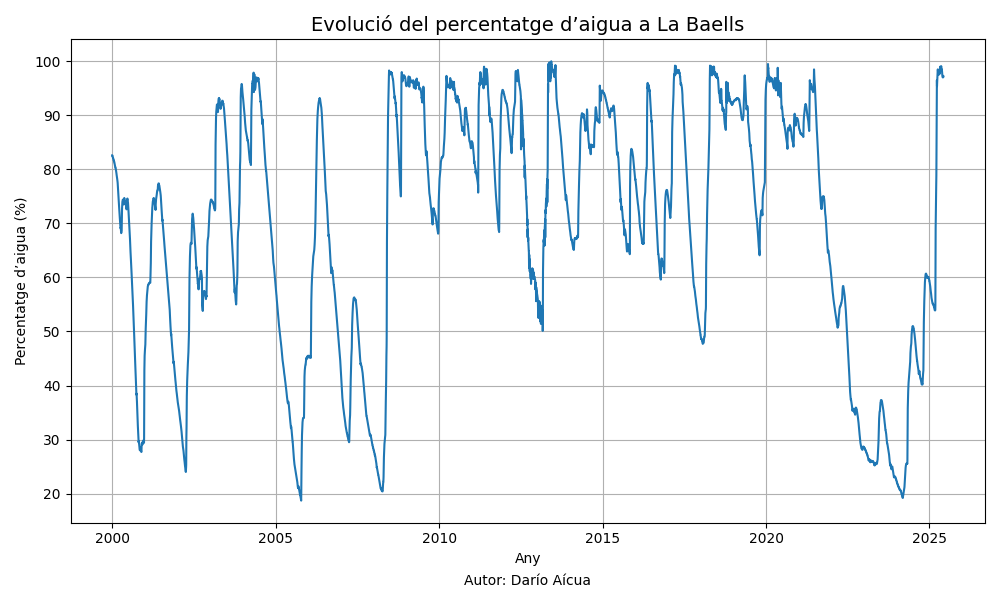
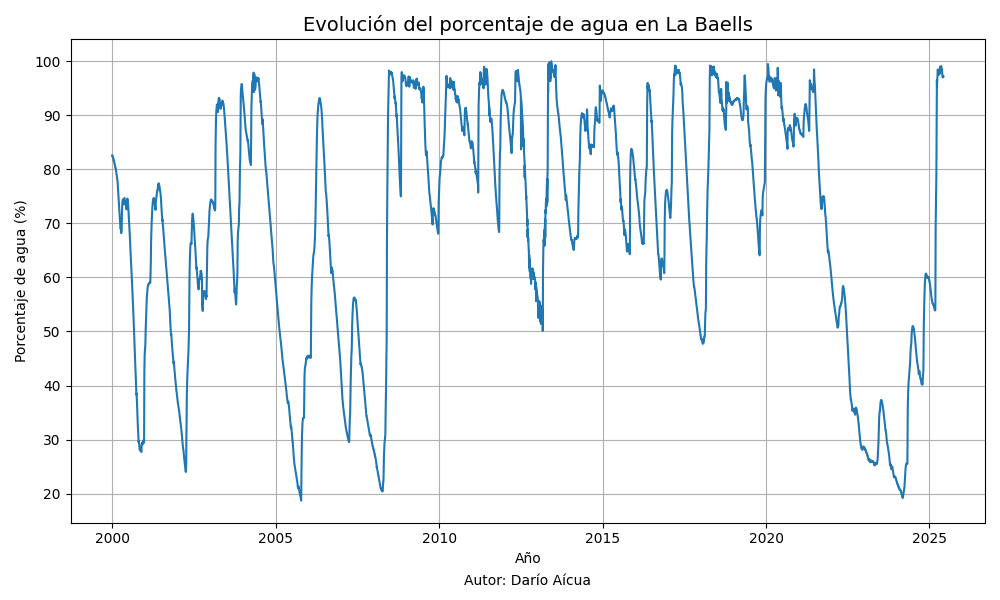
Convertir textos a castellano

Changed region(s): [[0.31, 0.03, 0.775, 0.06], [0.0, 0.33, 0.031, 0.6]]

diff --git a/baells/plots.py b/baells/plots.py
@@ -19,9 +19,9 @@ def plot_volume(df, path_to_save, nombre_autor="Darío Aícua"):
     plt.figure(figsize=(10, 6))
     plt.plot(df["dia_decimal"], df["nivell_perc"], label="Volum d’aigua")
 
-    plt.xlabel("Any")
-    plt.ylabel("Percentatge d’aigua (%)")
-    plt.title("Evolució del percentatge d’aigua a La Baells", fontsize=14)
+    plt.xlabel("Año")
+    plt.ylabel("Porcentaje de agua (%)")
+    plt.title("Evolución del porcentaje de agua en La Baells", fontsize=14)
     plt.text(0.5, -0.12, f"Autor: {nombre_autor}", ha='center', va='center',
              transform=plt.gca().transAxes, fontsize=10)
 
@@ -46,11 +46,11 @@ def plot_smoothed(df, path_to_save, nombre_autor="Darío Aícua"):
     """
     plt.figure(figsize=(10, 6))
     plt.plot(df["dia_decimal"], df["nivell_perc"], label="Original", alpha=0.5)
-    plt.plot(df["dia_decimal"], df["nivell_suavitzat"], label="Suavitzat", linewidth=2)
+    plt.plot(df["dia_decimal"], df["nivell_suavitzat"], label="Suavizado", linewidth=2)
 
-    plt.xlabel("Any")
-    plt.ylabel("Percentatge d’aigua (%)")
-    plt.title("Evolució del percentatge d’aigua a La Baells (suavitzada)", fontsize=14)
+    plt.xlabel("Año")
+    plt.ylabel("Porcentaje de agua (%)")
+    plt.title("Evolución del porcentaje de agua en La Baells (suavizado)", fontsize=14)
     plt.text(0.5, -0.12, f"Autor: {nombre_autor}", ha='center', va='center',
              transform=plt.gca().transAxes, fontsize=10)
 

diff --git a/main.py b/main.py
@@ -92,8 +92,8 @@ def main():
         # Creamos columna para el suavizado
         df_baells["nivell_suavitzat"] = apply_smoothing(df_baells["nivell_perc"])
         # Generamos y guardamos la gráfica con el suavizado
-        plot_smoothed(df_baells, "img/labaells_suavitzat_dario.png", nombre_autor="Darío Aícua")
-        print("Gráfico suavizado guardado en img/labaells_suavitzat_dario.png")
+        plot_smoothed(df_baells, "img/labaells_suavizado_dario.png", nombre_autor="Darío Aícua")
+        print("Gráfico suavizado guardado en img/labaells_suavizado_dario.png")
 
     if ejercicio_max >= 5:
         print("\n--- Ejercicio 5: Detección de periodos de sequía ---")
